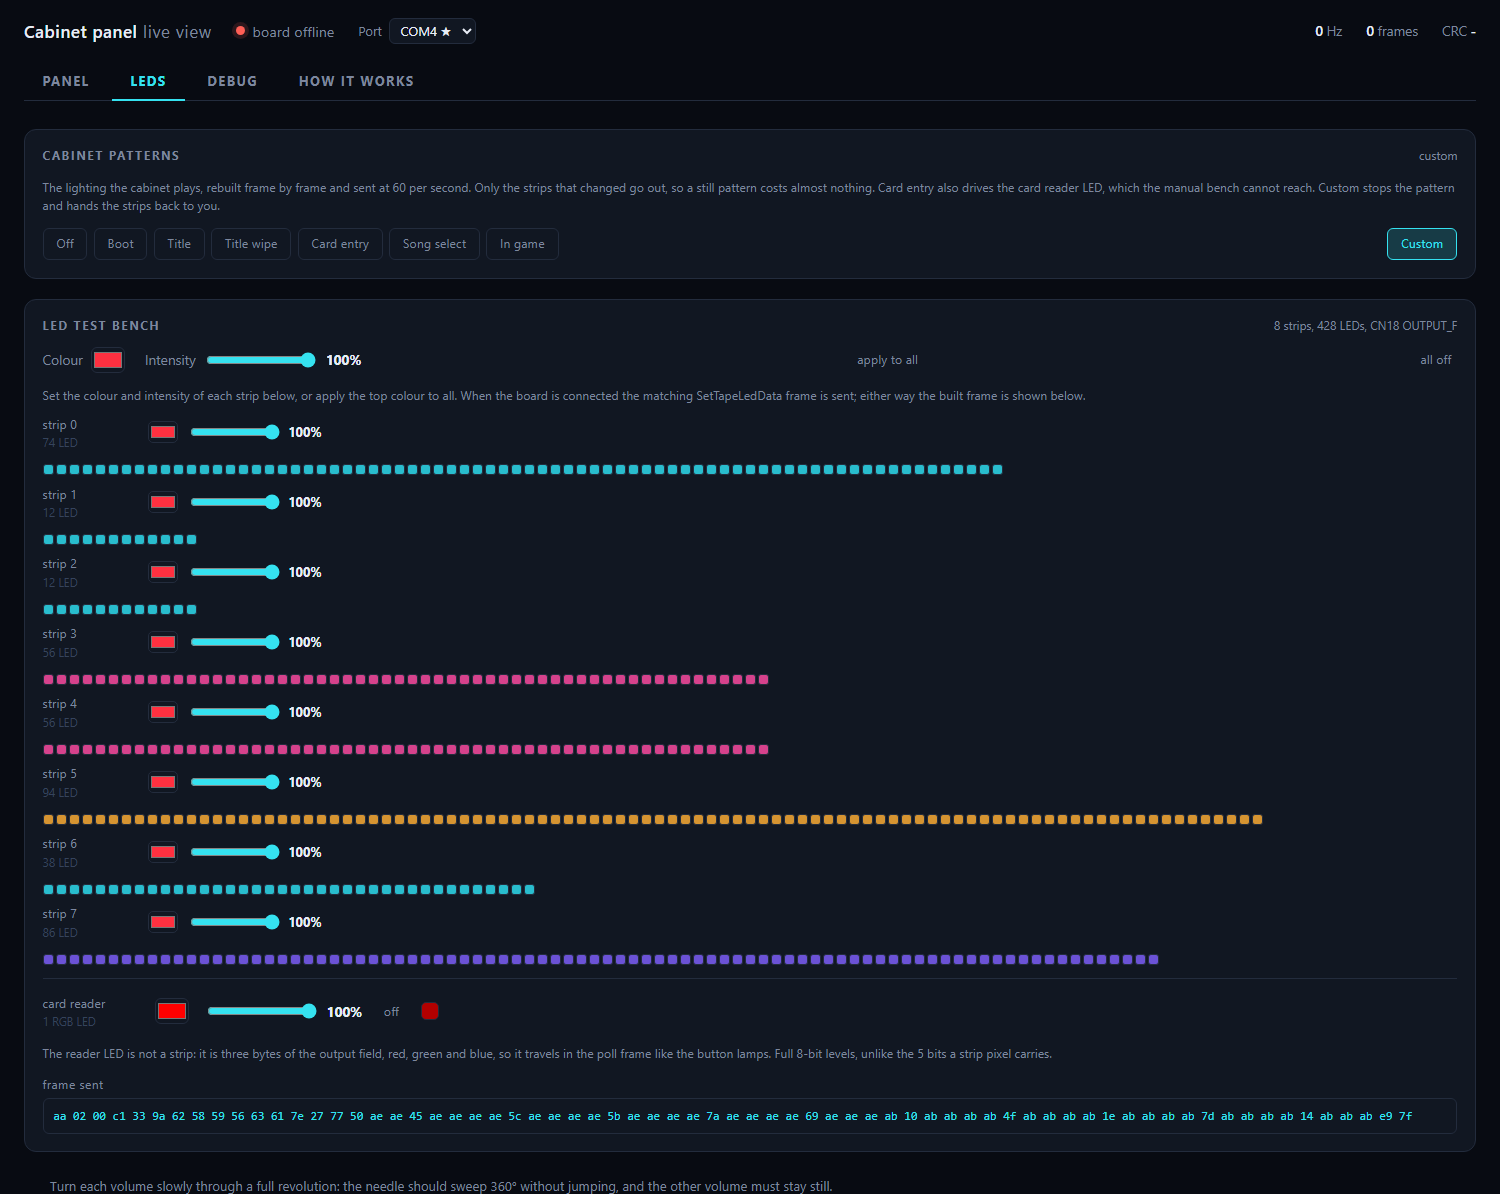
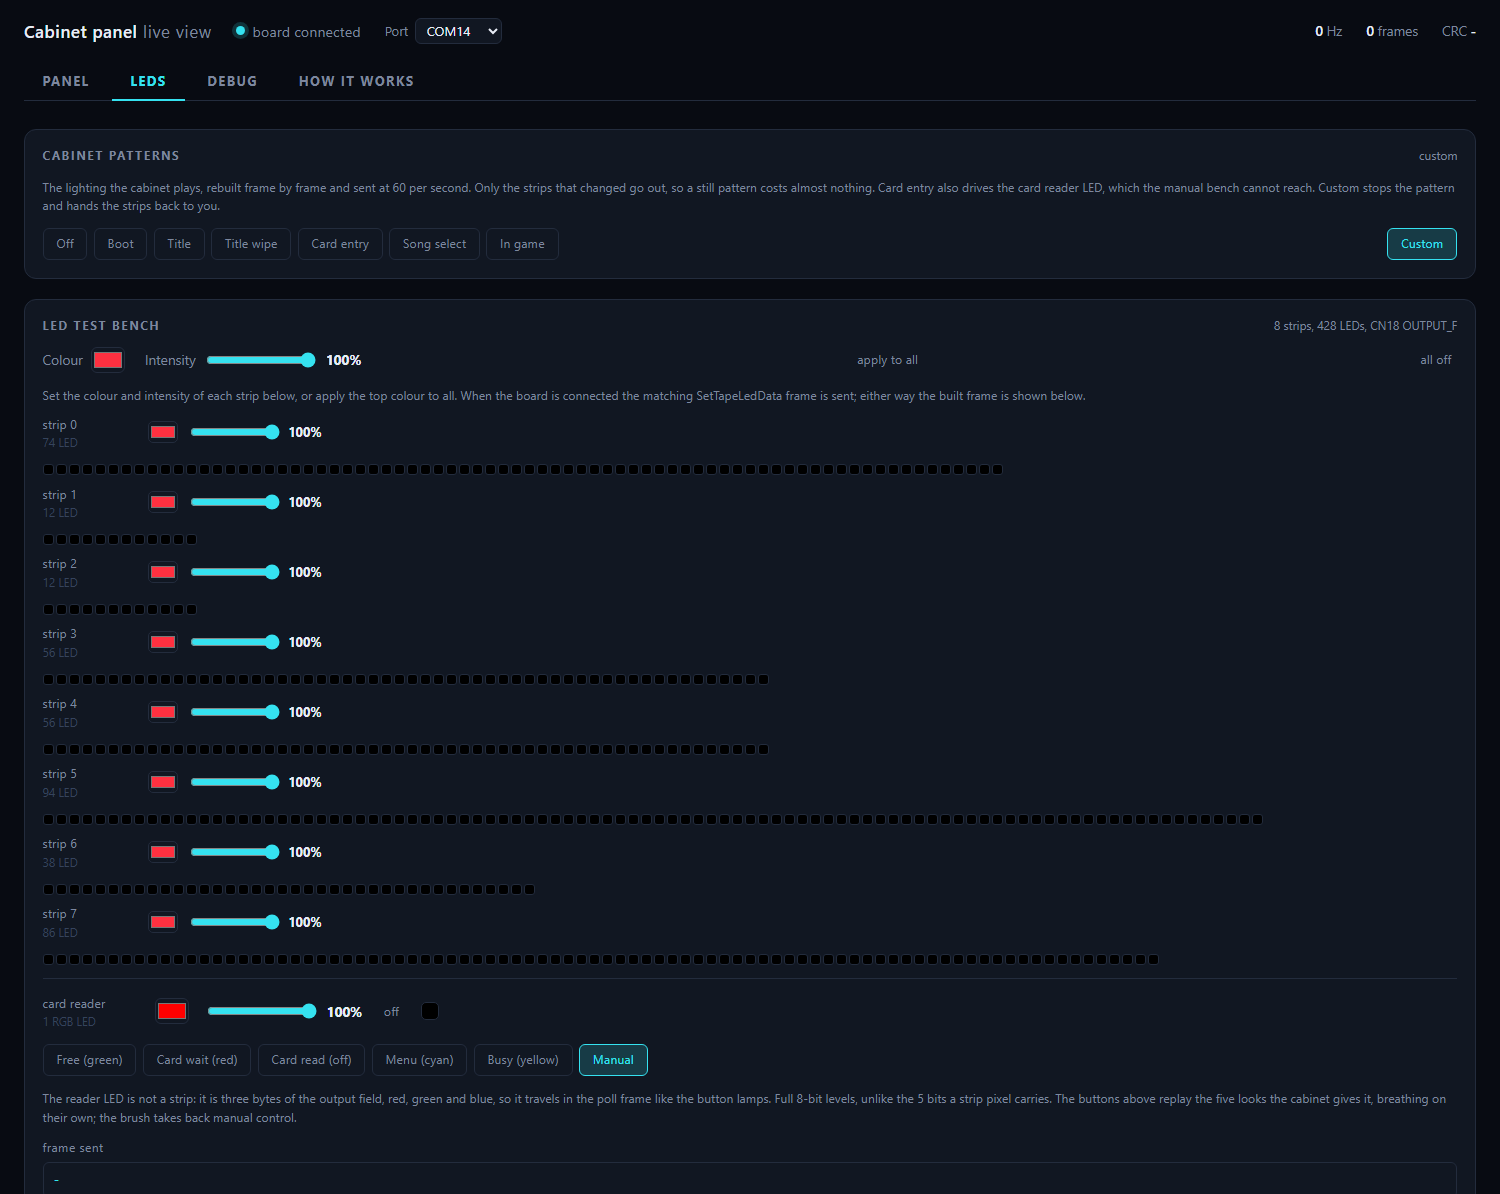
docs: the outputs settled, stated as they work
The full-capture decode facts (only offsets 0, 17..23 and 25..27 ever
nonzero, 0xFF means on, the game's resting state holds all lamps on and
the reader white, four commands in the whole outbound vocabulary), the
warm-board rule and the initialization process wherever startup is
described, the LEDs tab shot refreshed with the reader presets, and the
status: every output tested on hardware, button lamps included.

diff --git a/docs/OUTPUTS.md b/docs/OUTPUTS.md
@@ -6,10 +6,11 @@ This page has the outbound direction (host to board): how a frame drives the but
 LED strips, and how the panel sends them. For the inbound direction and the frame basics, see
 [TECHNICAL.md](TECHNICAL.md). For the serial conversation, see [COMMUNICATION.md](COMMUNICATION.md).
 
-Status: solved and driven, and confirmed on the cabinet for everything but the button lamps. The
-outbound frame format is reversed, `bi2x/encoder.py` builds the frames, and the panel drives the LED
-strips, the card reader LED and the button lamps. The strips follow a colour change as it is made,
-the reader lights on command, and the rebuilt lighting patterns look like the cabinet's own.
+Status: solved, driven and confirmed on the cabinet, button lamps included. The outbound frame
+format is reversed, `bi2x/encoder.py` builds the frames, and the panel drives the LED strips, the
+card reader LED and the button lamps. The strips follow a colour change as it is made, the reader
+lights on command, the lamps light individually and all together from the panel, and the rebuilt
+lighting patterns look like the cabinet's own.
 
 ## The outbound frame
 
@@ -67,6 +68,18 @@ this, and the tag is a single counter shared by every outbound frame:
 No frame ever mixes pixel commands with `03 10`, and no payload goes past 263 bytes: a strip that
 would not fit is split on the `offset` field. Only the strips that changed are sent.
 
+## The warm-board rule
+
+The startup handshake is only for a freshly powered board. Replayed on a warm board — one that
+already answers polls — it disables the SetOutputs stage: the button lamps and the reader LED stay
+dark while the inputs, the knobs and the strips keep working. The state survives a mains cycle,
+because the usb cable's 5V keeps the board's logic alive: only cutting mains AND usb together
+reboots it. Measured on the cabinet.
+
+So every tool probes before it initializes: a board that answers a poll is already initialized and
+goes straight to the polls, and the handshake is only sent to one that stays silent. A
+startup-time check beats a clean shutdown, because it also runs after a crash.
+
 ## The button lamps: SetOutputs (`03 11`)
 
 The lamps ride INSIDE the poll frame, not in a frame of their own:
@@ -79,6 +92,15 @@ Each output is one intensity byte (0x00 to 0xFF). Byte 0 of the field is a maste
 `0xFF`. The 7 button lamps are at offsets 17 to 23, in this order: START, BT-A, BT-B, BT-C, BT-D,
 FX-L, FX-R. These lamps are plain 12 V drivers, so in practice they are on (`0xFF`) or off (`0x00`),
 even though the byte could carry an intensity.
+
+A full decode of the capture (166,293 SetOutputs fields, every frame CRC-checked) settles three
+facts. Only offsets 0, 17..23 and 25..27 ever take a nonzero value: the rest of the field is zero
+across the whole session. `0xFF` means ON, proven by the reader bytes spelling the operator menu's
+palette in order (white, red, green, blue, off). And the game's resting state is **all seven lamps
+at `0xFF` and the reader white, from the session's first poll**: through boot and attract the lamps
+are simply on, and only the operator LAMP CHECK turns them off to cycle them one by one. The whole
+outbound vocabulary of the session is four commands: `03 11`, `03 10`, `03 21`, `03 22` — there is
+no other output or enable command to discover.
 
 ## The card reader LED: three more bytes of the same field
 
@@ -208,8 +230,10 @@ replayed or built.
 The frames this project builds are not byte-identical to the vendor's: the payloads are, latch
 included, but the compressed stream is not, since our compressor is greedy and picks different
 matches. The board accepts them anyway. It answers the built poll frames, the strips light and
-follow a colour as it is picked, the card reader LED lights on command, and the rebuilt patterns
-look right on the cabinet.
+follow a colour as it is picked, the card reader LED lights on command, the button lamps light from
+the panel's toggles, one at a time and all together, and the rebuilt patterns look right on the
+cabinet. The lamp offsets 17 to 23 and their order are therefore confirmed on the hardware, not
+just on the capture.
 
 That settles the one question a capture could not: the recording everything was reversed from is an
 operator LAMP CHECK, whose pixels only ever take seven test colours, so no amount of reading it
@@ -217,9 +241,6 @@ would have told us whether a pattern looks like itself.
 
 ## Still open
 
-- The button lamps have not been lit on a cabinet yet. The road there is proven, though: they sit in
-  the same output field as the card reader LED, in the same built poll frame, and that frame is
-  known to arrive and be acted on. What is unproven is only the offsets, 17 to 23.
 - A byte-exact encoder would need the vendor compressor's hash-chain match finder, which is
   characterised but not ported. Nothing needs it: the board takes what we send.
 - Encoding modes 0 and 1 are never seen on this node, so they are untested.

diff --git a/README.md b/README.md
@@ -11,10 +11,10 @@ protocol. It also has a decoder and an encoder with few dependencies.
 Status:
 
 - The inputs are fully decoded and tested on hardware.
-- The outputs are decoded and driven. The outbound frame format is reversed and `bi2x/encoder.py`
-  builds the frames. The LED strips and the card reader LED are tested on hardware, and so are the
-  cabinet's own lighting patterns, which the panel replays and which look like the ones it plays
-  itself. The button lamps are not tested yet (see [docs/OUTPUTS.md](docs/OUTPUTS.md)).
+- The outputs are decoded, driven and tested on hardware: the LED strips, the button lamps, the
+  card reader LED, and the cabinet's own lighting patterns, which the panel replays and which look
+  like the ones it plays itself. The outbound frame format is reversed and `bi2x/encoder.py` builds
+  the frames (see [docs/OUTPUTS.md](docs/OUTPUTS.md)).
 
 The project validated the decoder on 10502 captured frames against a timestamped state log. 100% of
 the payloads are the same byte for byte. 100% of the button states are correct. The header CRC is
@@ -54,6 +54,10 @@ python bi2x/client.py           # console output
 ```
 
 The serial port is exclusive. Close all other programs that use the board first.
+
+The tools initialize the board only when it is freshly powered: a board that already answers polls
+is picked up as-is, without the startup handshake. See
+[docs/COMMUNICATION.md](docs/COMMUNICATION.md).
 
 The panel opens on the live view of the inputs. The shots below were taken with no board attached,
 which is why every reading sits at zero.

diff --git a/docs/COMMUNICATION.md b/docs/COMMUNICATION.md
@@ -29,8 +29,12 @@ input.
 
 `replay.json` holds two things:
 
-- `init`: 210 startup frames. The tools send them one time, at the connection. This is the handshake
-  with the board.
+- `init`: 210 startup frames, the handshake with the board. It is only for a freshly powered
+  board, so the tools probe first: they send one poll, and a board that answers is already
+  initialized and is used as-is. The handshake goes out only when the board stays silent.
+  Sending it to an already-initialized board disables the SetOutputs stage (button lamps and
+  reader LED; the inputs and the strips keep working), and only cutting mains AND usb together
+  resets that, because the usb cable's 5V keeps the board's logic alive through a mains cycle.
 - `poll`: 128 entries (keys 0 to 127). Each entry is one poll request of 25 bytes.
 
 ## Why 128 poll requests, not one per input
